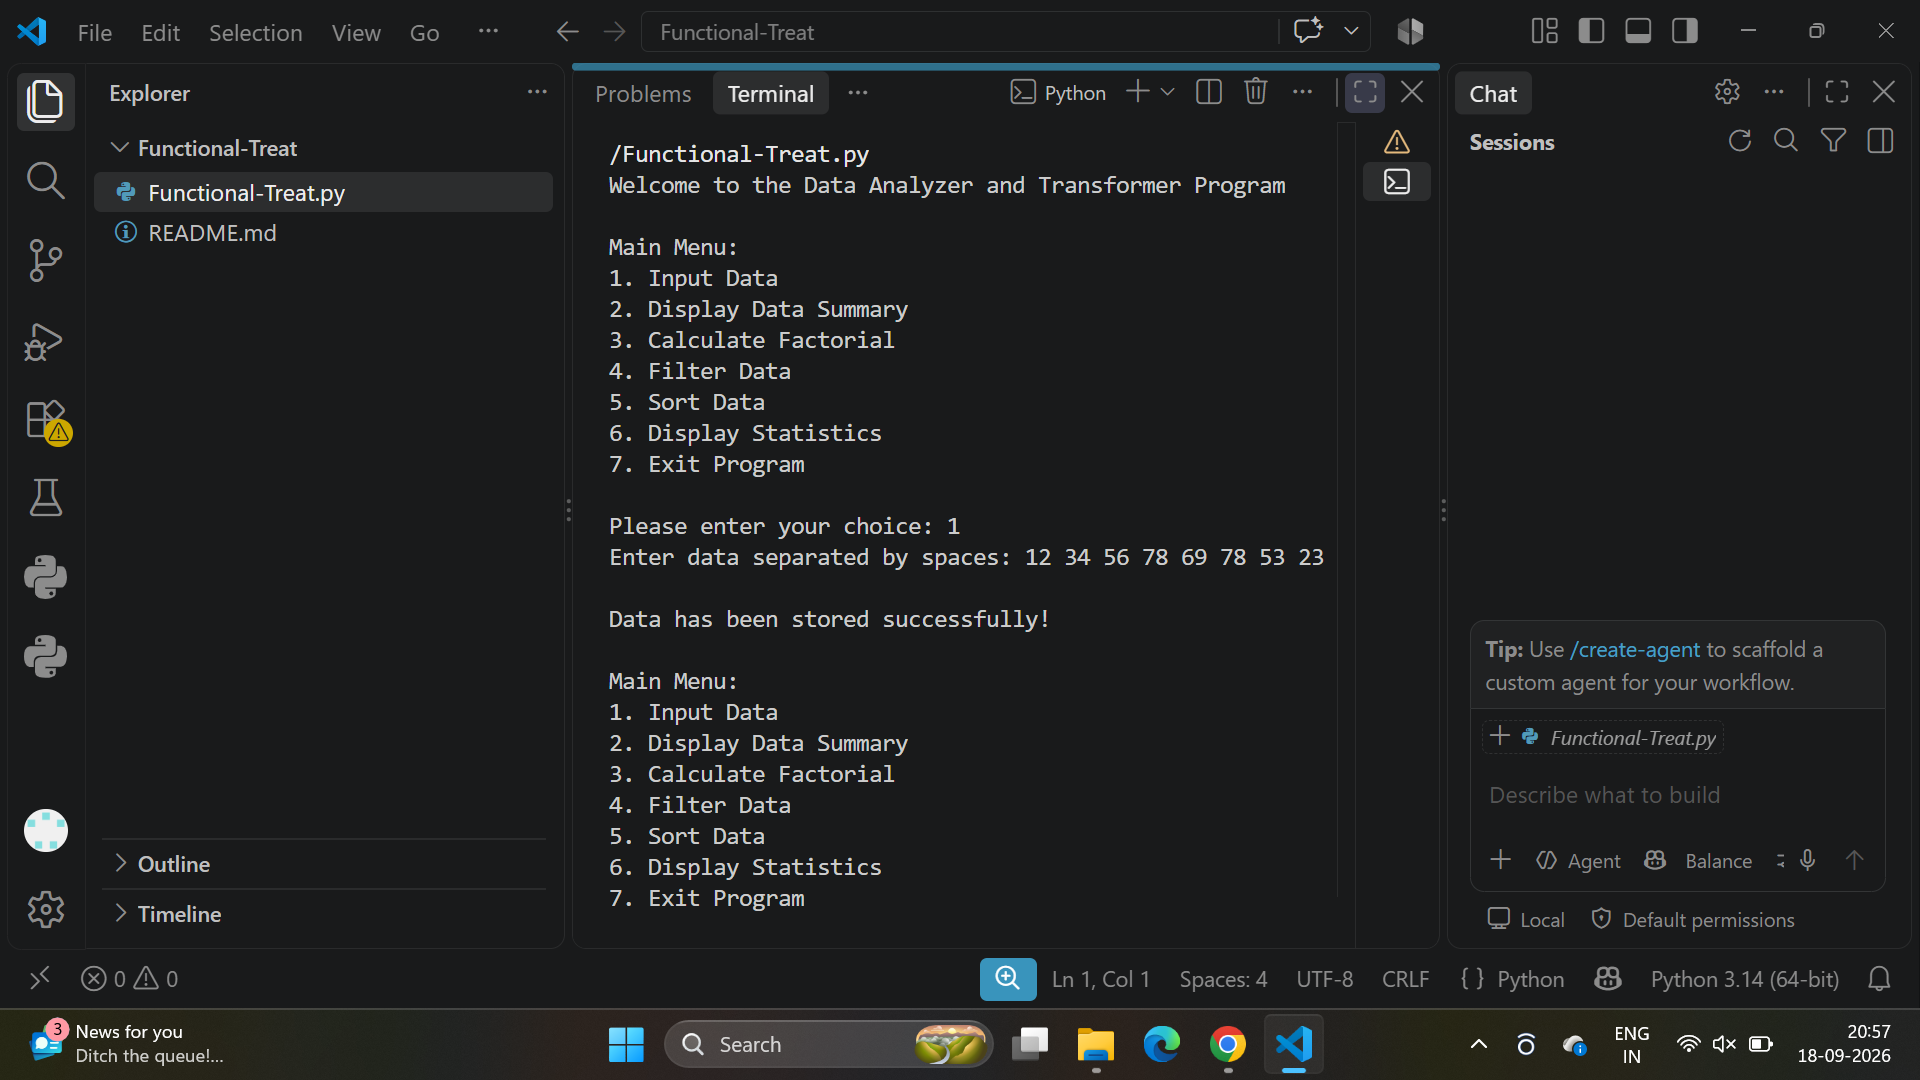
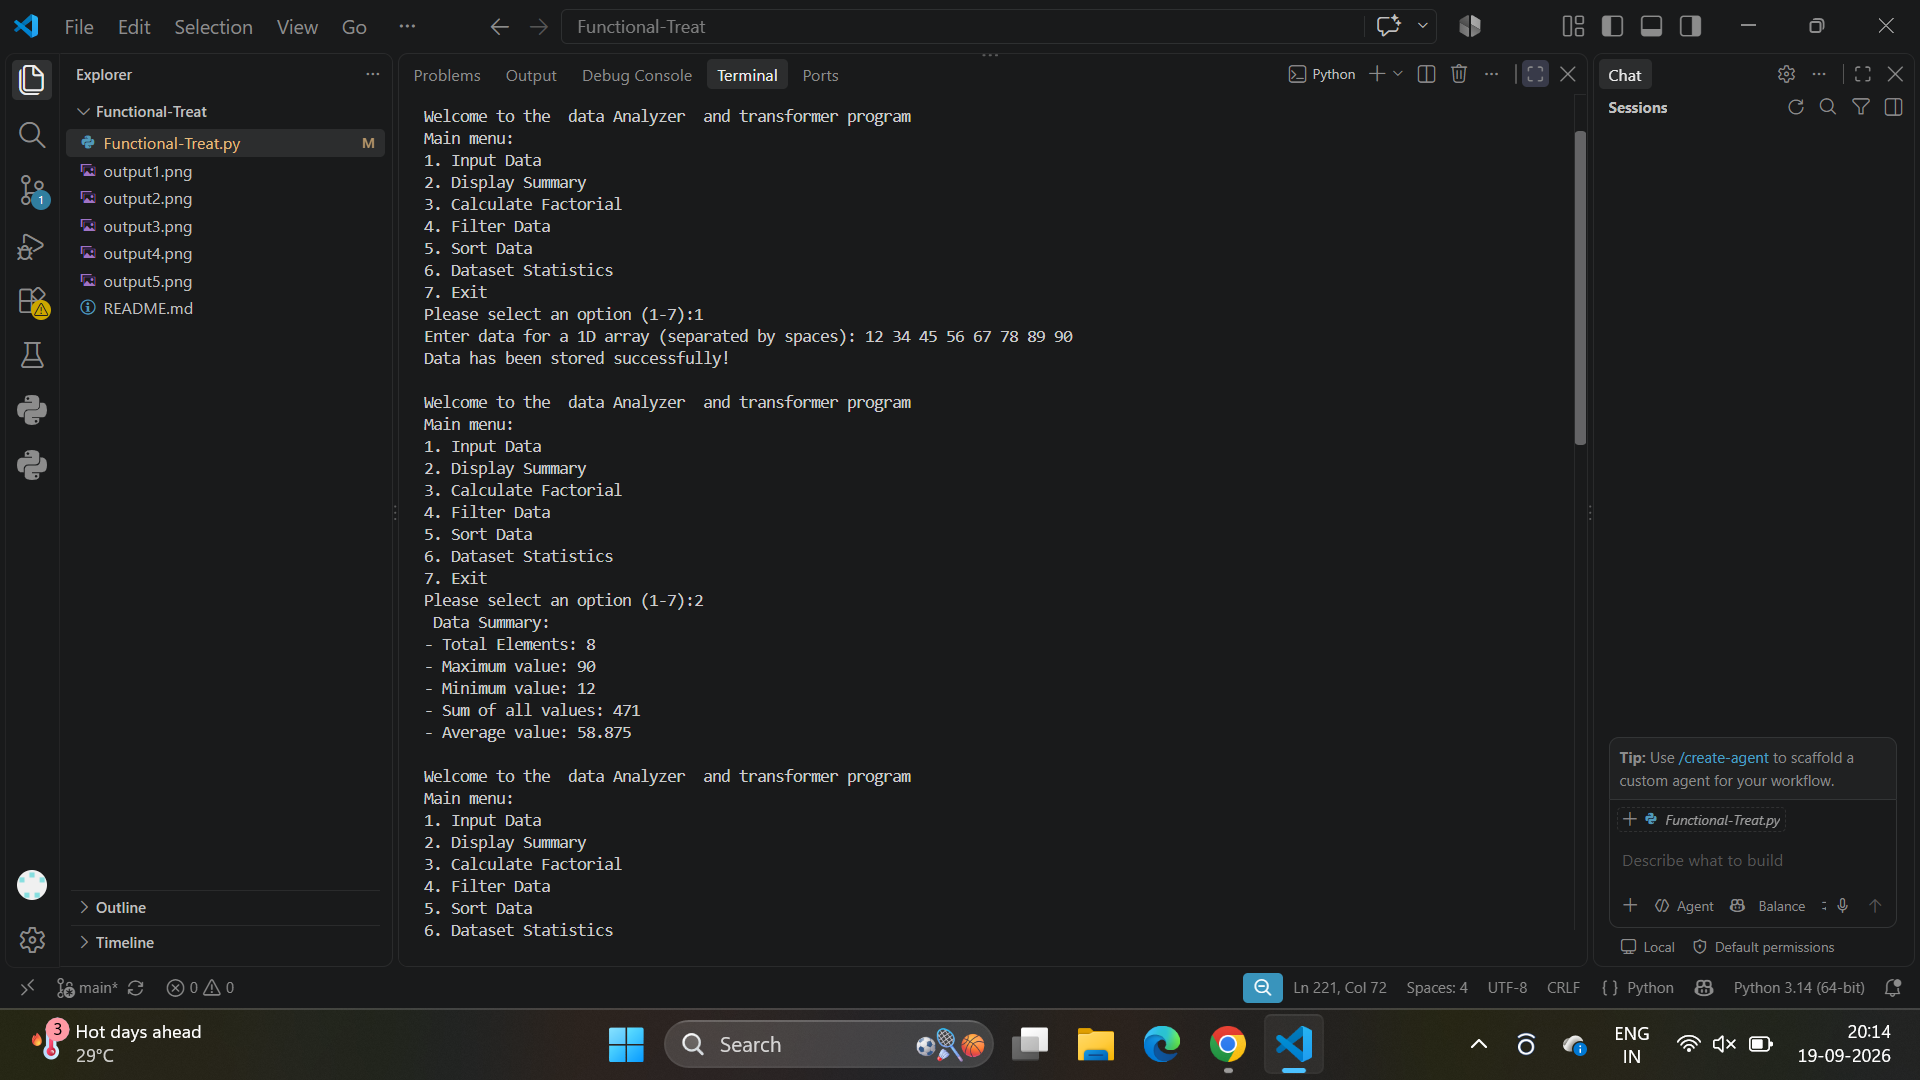
Update files

diff --git a/Functional-Treat.py b/Functional-Treat.py
@@ -1,115 +1,221 @@
-
- 
-data = [] 
- 
-print("Welcome to the Data Analyzer and Transformer Program") 
- 
-while True: 
- 
-    print("\nMain Menu:") 
-    print("1. Input Data") 
-    print("2. Display Data Summary") 
-    print("3. Calculate Factorial") 
-    print("4. Filter Data") 
-    print("5. Sort Data") 
-    print("6. Display Statistics") 
-    print("7. Exit Program") 
- 
-    choice = input("\nPlease enter your choice: ") 
- 
-    # 1. Input Data 
-    if choice == "1": 
- 
-        values = input("Enter data separated by spaces: ") 
-        data = list(map(int, values.split())) 
- 
-        print("Data has been stored successfully!") 
- 
-    # 2. Built-in Functions 
-    elif choice == "2": 
- 
-        if len(data) == 0: 
-            print("Please enter data first!") 
-        else: 
-            print("\nData Summary:") 
-            print("Total elements:", len(data)) 
-            print("Minimum value:", min(data)) 
-            print("Maximum value:", max(data)) 
-            print("Sum:", sum(data)) 
-            print("Average:", sum(data) / len(data)) 
- 
-    # 3. Recursion - Factorial 
-    elif choice == "3": 
- 
-        n = int(input("Enter a number: ")) 
- 
-        def factorial(n): 
-            if n == 0 or n == 1: 
-                return 1 
-            return n * factorial(n - 1) 
- 
-        print("Factorial:", factorial(n)) 
- 
-    # 4. Lambda Function 
-    elif choice == "4": 
- 
-        if len(data) == 0: 
-            print("Please enter data first!") 
-        else: 
-            number = int(input("Enter threshold: ")) 
- 
-            result = list(filter(lambda x: x >= number, data)) 
- 
-            print("Filtered Data:", result) 
- 
-    # 5. Sorting 
-    elif choice == "5": 
- 
-        if len(data) == 0: 
-            print("Please enter data first!") 
-        else: 
-            print("1. Ascending") 
-            print("2. Descending") 
- 
-            ch = input("Enter choice: ") 
- 
-            if ch == "1": 
-                print("Sorted Data:", sorted(data)) 
- 
-            elif ch == "2": 
-                print("Sorted Data:", sorted(data, reverse=True)) 
- 
-            else: 
-                print("Invalid choice!") 
- 
-    # 6. Return Multiple Values 
-    elif choice == "6": 
- 
-        if len(data) == 0: 
-            print("Please enter data first!") 
-        else: 
- 
-            def statistics(numbers): 
-                minimum = min(numbers) 
-                maximum = max(numbers) 
-                total = sum(numbers) 
-                average = total / len(numbers) 
- 
-                return minimum, maximum, total, average 
- 
-            a, b, c, d = statistics(data) 
- 
-            print("\nDataset Statistics:") 
-            print("Minimum:", a) 
-            print("Maximum:", b) 
-            print("Sum:", c) 
-            print("Average:", d) 
- 
-    # 7. Exit 
-    elif choice == "7": 
- 
-        print("Thank you! Goodbye!") 
-        break 
- 
-    else: 
-        print("Invalid choice!")
+data = []
+# 1. Input Data
+def input_data():
+    """
+    Take input from the user and store it in a 1D array.
+    This function allows the user to enter multiple integer
+    values separated by spaces. The input values are converted
+    into integers and stored in the global data list.
+    The function updates the existing data and displays a
+    success message after storing the values.
+    Parameters:
+        None
+    Returns:
+        None
+    Example:
+        Input: 10 20 30 40 50
+        Output:
+            Data has been stored successfully!
+    """
+    global data
+    values = input("Enter data for a 1D array (separated by spaces): ")
+    data = [int(x) for x in values.split()]
+    print("Data has been stored successfully!")
+#2. Display Summary
+def display_summary():
+    """
+    Display a summary of the stored dataset.
+    This function checks whether the data list contains
+    any elements. If data is available, it calculates and
+    displays the total number of elements, maximum value,
+    minimum value, sum of all values and average value.
+    If the data list is empty, the function displays a
+    message indicating that no data is available.
+    Parameters:
+        None
+    Returns:
+        None
+    Example:
+        Input Data: [10, 20, 30, 40, 50]
+        Output:
+            Total Elements: 5
+            Maximum value: 50
+            Minimum value: 10
+            Sum of all values: 150
+            Average value: 30.0
+    """
+    if data:
+        print(" Data Summary:")
+        print("- Total Elements:", len(data))
+        print("- Maximum value:", max(data))
+        print("- Minimum value:", min(data))
+        print("- Sum of all values:", sum(data))
+        print("- Average value:", sum(data)/len(data))
+    else:
+        print("No data available.")
+#3.Factorial Calculation (Recursion)
+def factorial(n):
+    """
+    Calculate the factorial of a number using recursion.
+    This function calculates the factorial of a non-negative
+    integer. Factorial is the product of all positive integers
+    from 1 to the given number.
+    The function uses recursion, where it calls itself with
+    a smaller value until it reaches the base case.
+    The base case occurs when n is 0 or 1, because the
+    factorial of both values is 1.
+    Negative numbers are not supported because their
+    factorial is not defined in this context.
+    Parameters:
+        n (int): The number whose factorial is calculated.
+    Returns:
+        int: The factorial of the given number.
+        str: An error message if the number is negative.
+    Examples:
+        factorial(5) returns 120
+        factorial(0) returns 1
+        factorial(1) returns 1
+        factorial(-2) returns an error message.
+    """
+    if n < 0:
+        return "Factorial is not defined for negative numbers"
+    if n == 0 or n == 1:
+        return 1
+    return n * factorial(n - 1)
+# 4. Filter Data by Threshold (Lambda Function)
+def filter_data():
+    """
+    Filter dataset values based on a threshold using lambda.
+    This function asks the user to enter a threshold value.
+    It filters the elements from the data list that are
+    greater than the given threshold.
+    The filter() function is used with a lambda function
+    to check each element in the dataset.
+    If the dataset is empty, the function displays a
+    message indicating that no data is available.
+    Parameters:
+        None
+    Returns:
+        None
+    Example:
+        Input Data: [10, 20, 30, 40, 50]
+        Threshold: 25
+        Output:
+            Filtered data: [30, 40, 50]
+    """
+    if data:
+        threshold = int(input("Enter a threshold value to Filter out data above this value: "))
+        filtered = list(filter(lambda x: x > threshold, data))
+        print("Filtered data:", filtered)
+    else:
+        print("NO data Available!")
+#5. sorting data 
+def sort_data():
+    """
+    Sort the dataset in ascending or descending order.
+    This function asks the user to select a sorting order.
+    The user can choose between ascending order and
+    descending order.
+    The sorted() function is used to arrange the elements
+    of the data list. The reverse=True argument is used
+    for descending order.
+    The function uses a while loop to repeatedly ask for
+    a valid choice if the user enters an invalid option.
+    Parameters:
+        None
+    Returns:
+        None
+    Examples:
+        Input Data: [40, 10, 30, 20]
+        Choice: 1
+        Output:
+            Sorted data in Ascending order: [10, 20, 30, 40]
+        Choice: 2
+        Output:
+            Sorted data in Descending order: [40, 30, 20, 10]
+    """
+    ch = input("choose sorting order (1/2): ")
+    print("1. Ascending")
+    print("2. Descending")
+    while True:
+        if ch == '1':
+            sorted_data = sorted(data)
+            print("\nSorted data in Ascending order:", sorted_data)
+            print(*sorted_data, sep=", ")
+            break
+        elif ch == '2':
+            sorted_data = sorted(data, reverse=True)
+            print("\nSorted data in Descending order:", sorted_data)
+            print(*sorted_data, sep=", ")
+            break
+        else:
+            print("Invalid choice. Please enter 1 or 2.")
+            ch = input("choose sorting order (1/2): ")
+# 6. Dataset Statistics
+def dataset_statistics(data):
+    """
+    Calculate basic statistical values for a dataset.
+    This function calculates the minimum value, maximum
+    value, total sum and average of the elements in the
+    given dataset.
+    The built-in Python functions min(), max() and sum()
+    are used to calculate the required statistical values.
+    The average is calculated by dividing the total sum
+    by the number of elements in the dataset.
+    Parameters:
+        data (list): A list containing numerical values.
+    Returns:
+        tuple: A tuple containing four values:
+            - minimum: The smallest value in the dataset.
+            - maximum: The largest value in the dataset.
+            - total: The sum of all elements.
+            - average: The average of all elements.
+    Example:
+        Input:
+            data = [10, 20, 30, 40, 50]
+        Output:
+            (10, 50, 150, 30.0)
+    """
+    minimum = min(data)
+    maximum = max(data)
+    total = sum(data)
+    average = total / len(data)
+    return minimum, maximum, total, average
+while True:
+    print("\nWelcome to the  data Analyzer  and transformer program")
+    print("Main menu:")
+    print("1. Input Data")
+    print("2. Display Summary")
+    print("3. Calculate Factorial")
+    print("4. Filter Data")
+    print("5. Sort Data")
+    print("6. Dataset Statistics")
+    print("7. Exit")
+    choice = input("Please select an option (1-7):")
+    match choice:
+        case '1':
+            input_data()
+        case '2':
+            display_summary()
+        case '3':
+            num = int(input("Enter a number to calculate its factorial: "))
+            print("Factorial of", num, "is:", factorial(num))
+        case '4':
+            filter_data()
+        case '5':
+            sort_data()
+        case '6':
+            if data:
+                minimum, maximum, total, average = dataset_statistics(data)
+                print("\nDataset Statistics:")
+                print("- Minimum value:", minimum)
+                print("- Maximum value:", maximum)
+                print("- Sum of all values:", total)
+                print(f"- Average value: {average:.2f}")
+            else:
+                print("No data available to calculate statistics.")
+        case '7':
+            print("Thank you for using the data Analyzer and transformer program. Goodbye!")
+            break
+        case _:
+            print("Invalid choice please select a valid option (1-7).")
